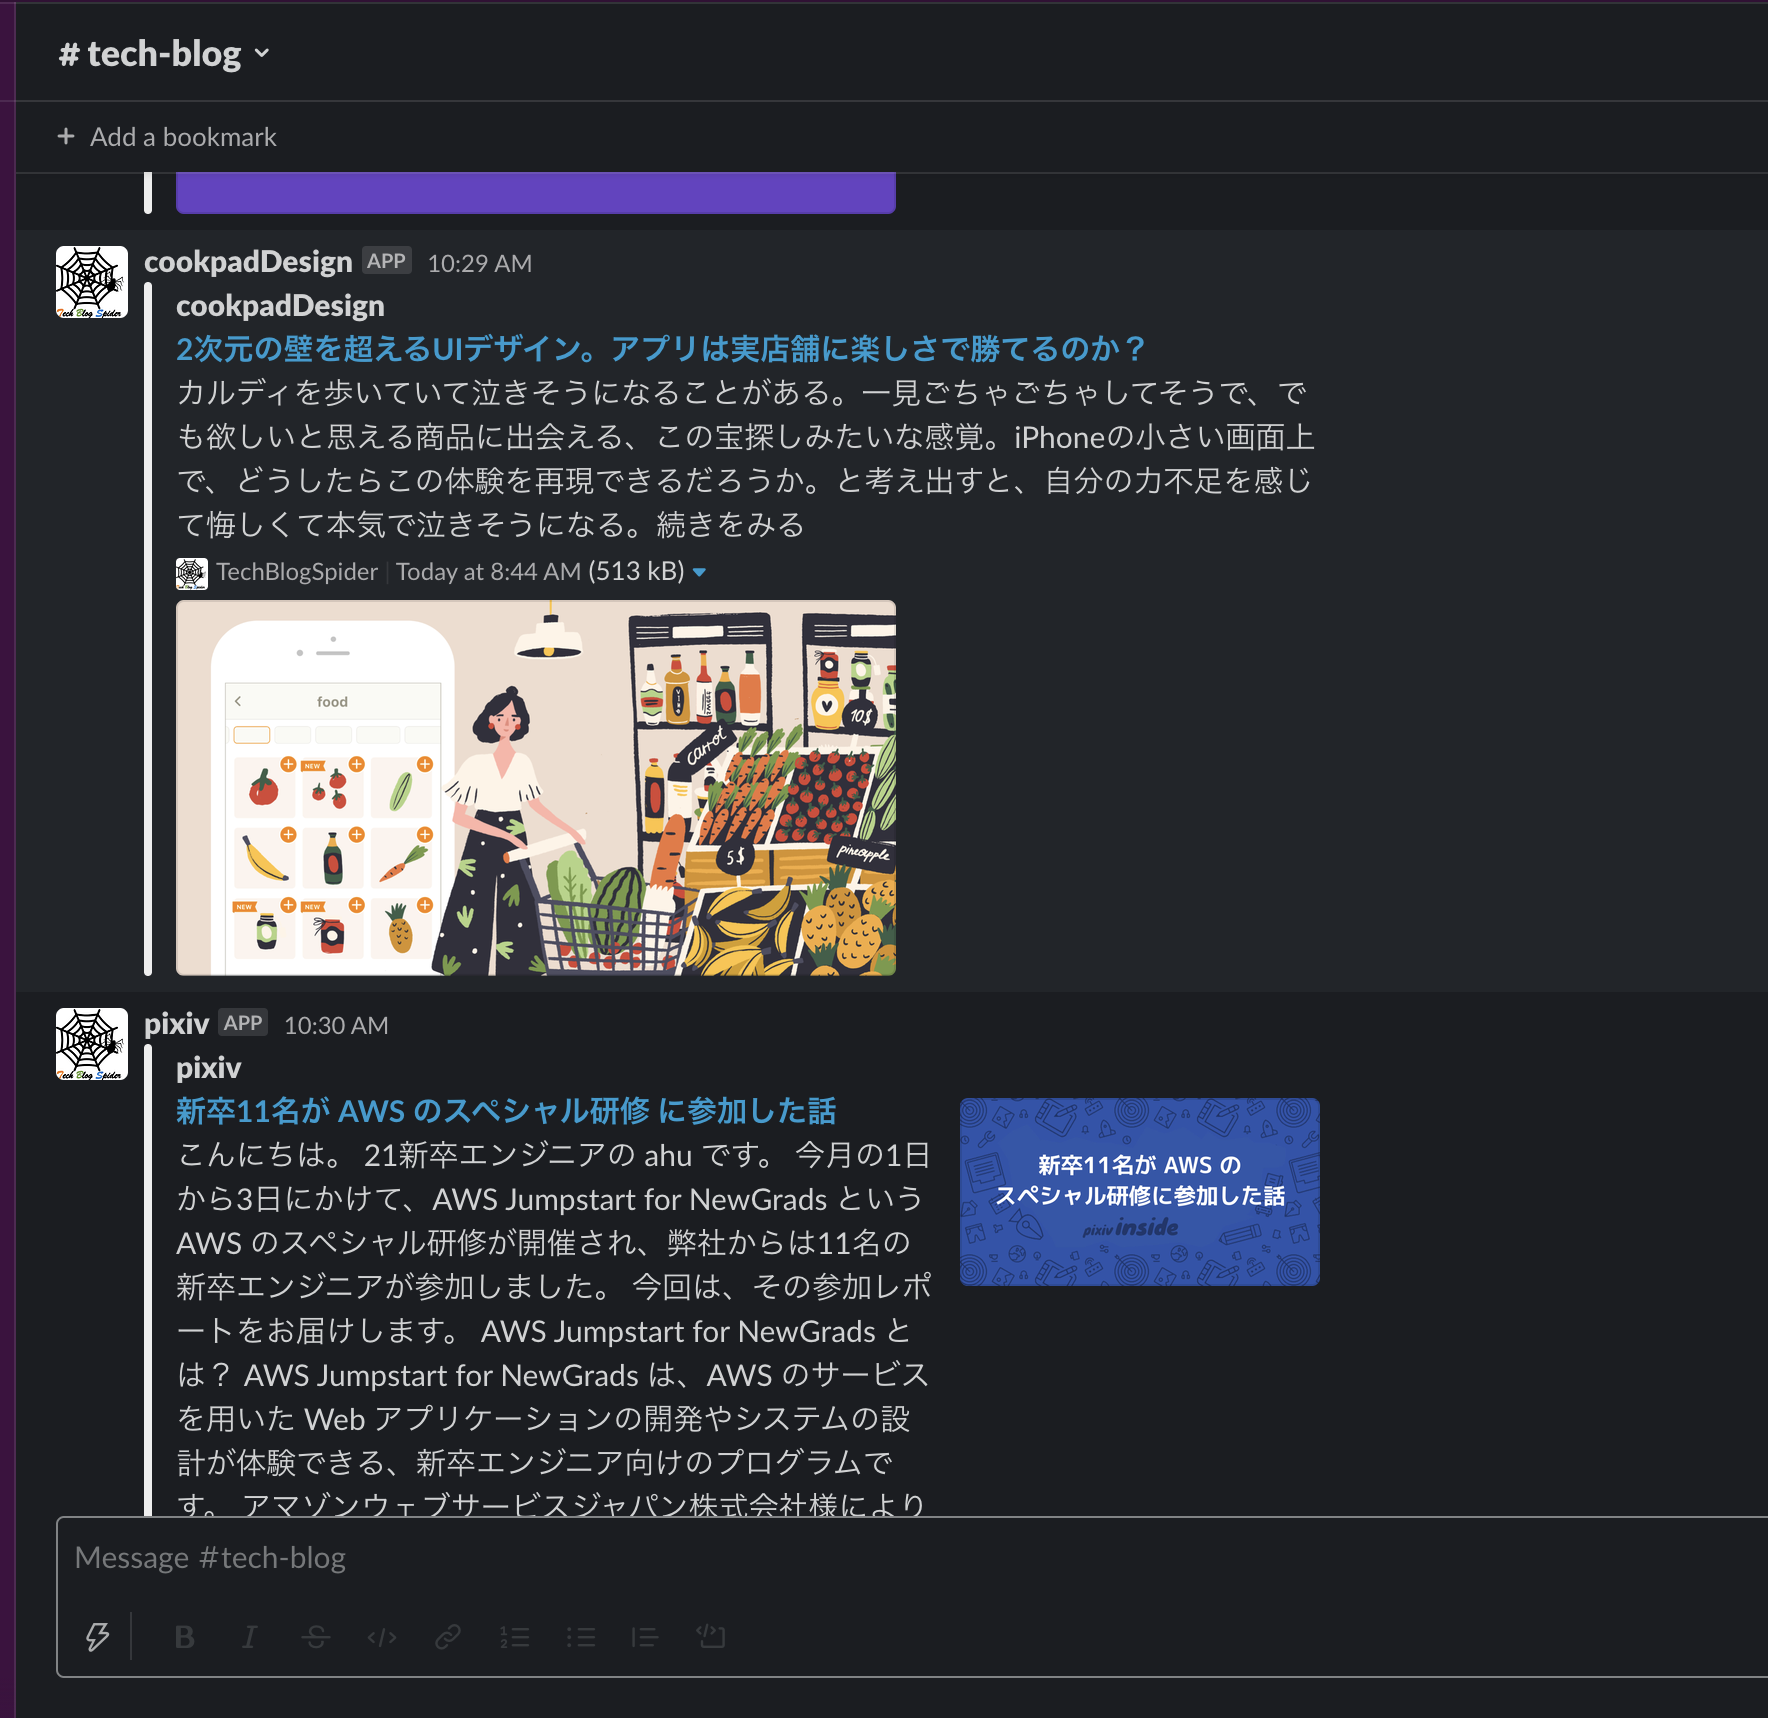
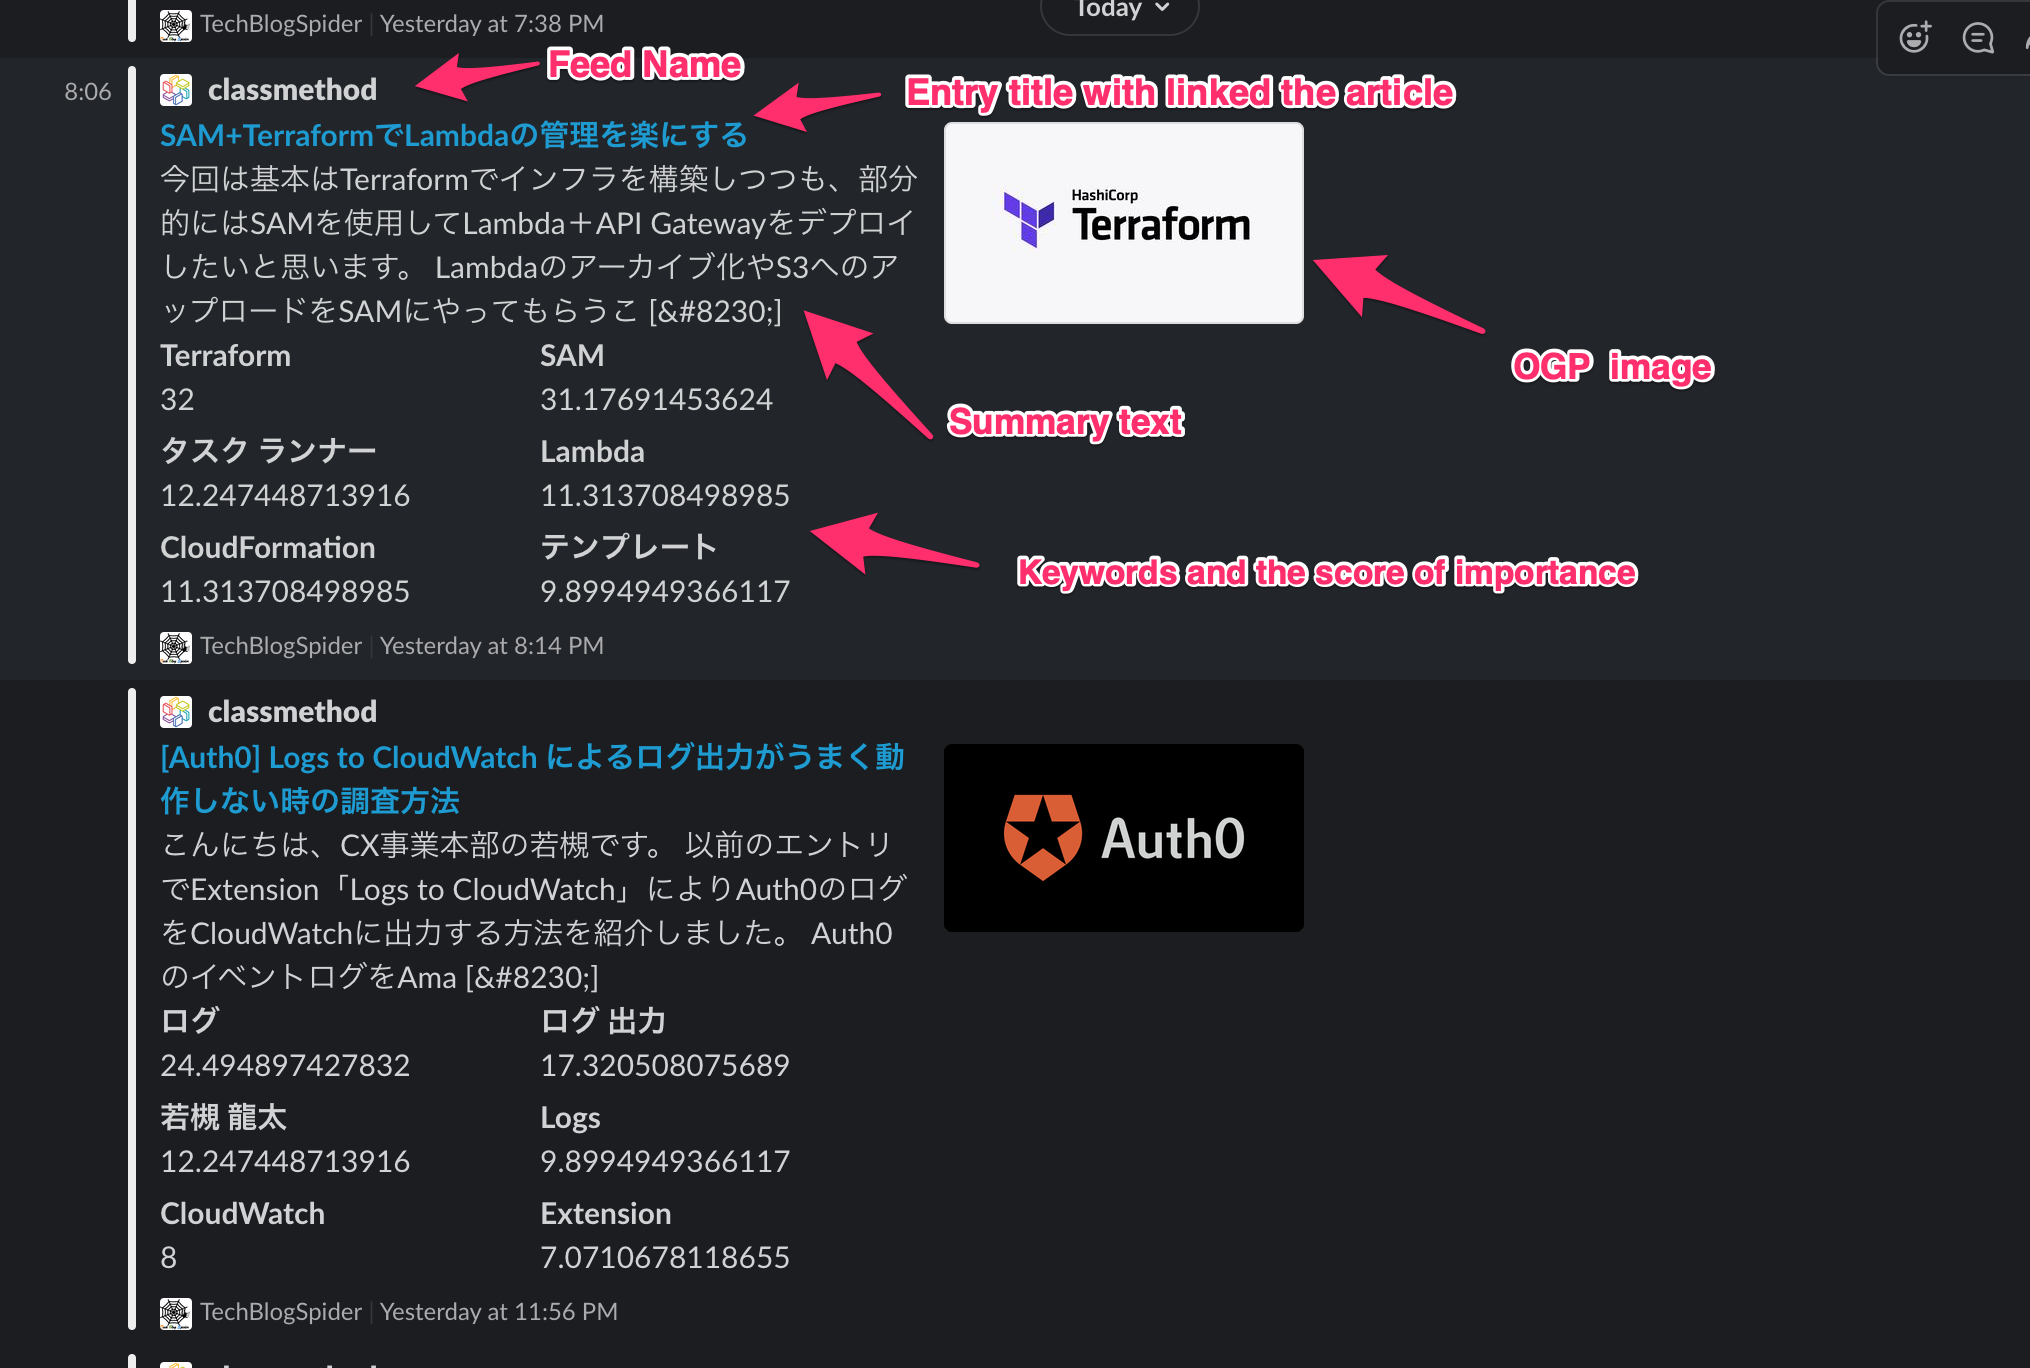
:books: README

Changed region(s): [[0.0, 0.0, 0.8399, 1.0], [0.9333, 0.0, 1.0, 0.0614]]

diff --git a/README.md b/README.md
@@ -34,6 +34,8 @@ It doesn't have any particular meaning, but I imagined a spider running around o
   
 - It is easy to automate; This repository uses [GitHub Actions](.github/workflows/rss.yml) to automate the process. And it's free.
 
+- You can use [pytermextract](http://gensen.dl.itc.u-tokyo.ac.jp/pytermextract/) to extract technical terms in an article and display them on Slack.
+
 ## Setup
 
 ### Preparing Harper DB
